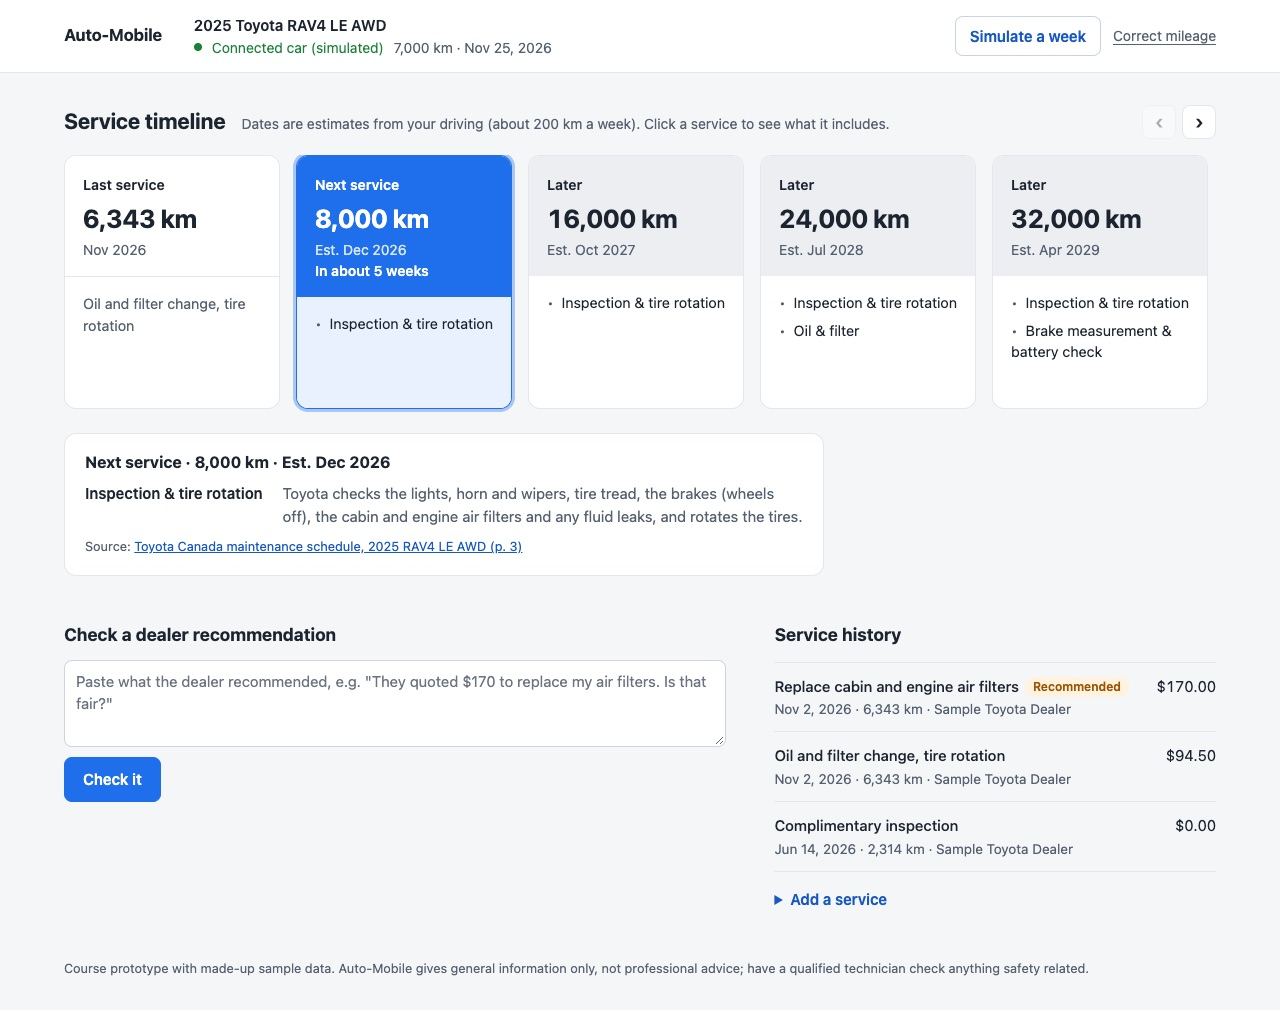
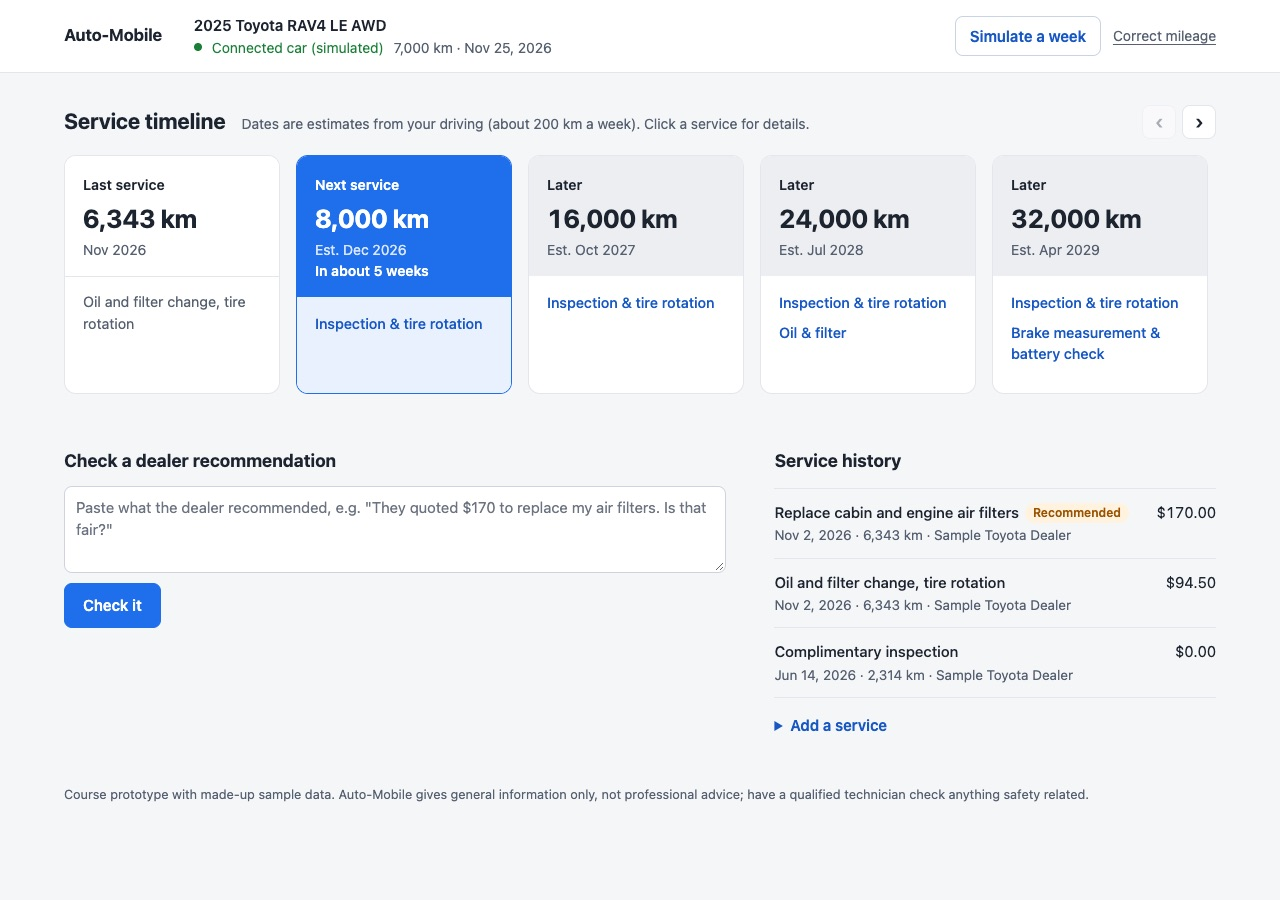
Simpler timeline: each service opens a pop-up with details and a link to the PDF
- removed the details panel and card selection
- services in a card are links; the pop-up shows Toyota's description and opens the schedule PDF at its page
- T11 wording, demo script and test results updated

diff --git a/public/app.js b/public/app.js
@@ -21,69 +21,46 @@ function plainList(items) {
 
 // --- The car, the timeline and the history -----------------------------------
 
-// The timeline: Toyota-style cards. Clicking a card shows what it includes below.
-let timelineState = { cards: [], selected: null };
-
-function cardButton(card, isSelected) {
-  const top = el("span", { className: "visit-top" },
-    el("span", { className: "visit-label", textContent: card.label }),
-    el("span", { className: "visit-km", textContent: km(card.km) }),
-    el("span", { className: "visit-date", textContent: card.dateText }),
-    card.inText && el("span", { className: "visit-when", textContent: card.inText }));
-  const body = el("span", { className: "visit-body" },
-    el("span", { className: "visit-items" }, card.names.map((n) => el("span", { textContent: n }))));
-  const button = el("button", { type: "button", className: `visit ${card.kind}${isSelected ? " selected" : ""}` }, top, body);
-  button.setAttribute("aria-pressed", String(isSelected));
-  button.addEventListener("click", () => selectCard(card.key));
-  return el("li", {}, button);
+// The timeline: Toyota-style cards. Each service opens a pop-up with its details.
+function openService(item, context) {
+  document.getElementById("service-dialog-context").textContent = context;
+  document.getElementById("service-dialog-title").textContent = item.name;
+  document.getElementById("service-dialog-text").textContent = item.description || "";
+  const link = document.getElementById("service-dialog-link");
+  link.href = item.link.url;
+  link.textContent = `Open Toyota's maintenance schedule (${item.link.label.replace("Toyota schedule ", "")})`;
+  document.getElementById("service-dialog").showModal();
 }
 
-function renderDetails(card) {
-  const box = document.getElementById("visit-details");
-  if (!card) return box.replaceChildren();
-  const title = el("h3", { textContent: [card.label, km(card.km), card.dateText].filter(Boolean).join(" · ") });
-  if (card.kind === "past") {
-    return box.replaceChildren(title, el("p", { textContent: card.pastText }));
-  }
-  const pages = [...new Set(card.items.map((i) => i.link.label.replace("Toyota schedule ", "")))].join(", ");
-  box.replaceChildren(
-    title,
-    el("dl", {}, card.items.map((i) => [el("dt", { textContent: i.name }), el("dd", { textContent: i.description || "" })])),
-    el("p", { className: "visit-source" }, "Source: ",
-      extLink({ url: card.items[0].link.url }, `Toyota Canada maintenance schedule, 2025 RAV4 LE AWD (${pages})`)));
+function visitCard(v, i) {
+  const overdue = i === 0 && v.kmLeft <= 0;
+  const kind = i === 0 ? (overdue ? "overdue" : "next") : "later";
+  const label = i === 0 ? (overdue ? "Overdue" : "Next service") : "Later";
+  const dateText = overdue ? `Overdue by ${km(-v.kmLeft)}` : v.dateLabel ? `Est. ${v.dateLabel}` : "";
+  const context = [label, km(v.km), dateText].filter(Boolean).join(" · ");
+  return el("li", { className: `visit ${kind}` },
+    el("div", { className: "visit-top" },
+      el("p", { className: "visit-label", textContent: label }),
+      el("p", { className: "visit-km", textContent: km(v.km) }),
+      el("p", { className: "visit-date", textContent: dateText }),
+      i === 0 && !overdue && v.inLabel && el("p", { className: "visit-when", textContent: v.inLabel.replace(/^in /, "In ") })),
+    el("ul", { className: "visit-items" }, v.items.map((it) => el("li", {},
+      el("button", { type: "button", className: "service-link", textContent: it.name, onclick: () => openService(it, context) })))));
 }
 
-function selectCard(key) {
-  timelineState.selected = key;
-  const t = document.getElementById("timeline");
-  const scroll = t.scrollLeft;
-  t.replaceChildren(...timelineState.cards.map((c) => cardButton(c, c.key === key)));
-  t.scrollLeft = scroll;
-  renderDetails(timelineState.cards.find((c) => c.key === key));
+function lastCard(last) {
+  return el("li", { className: "visit past" },
+    el("div", { className: "visit-top" },
+      el("p", { className: "visit-label", textContent: "Last service" }),
+      el("p", { className: "visit-km", textContent: km(last.km) }),
+      el("p", { className: "visit-date", textContent: last.dateLabel })),
+    el("ul", { className: "visit-items" }, el("li", { textContent: last.item })));
 }
 
-function timelineCards(garage) {
-  const cards = [];
-  const last = garage.lastService;
-  if (last) {
-    cards.push({ key: "last", kind: "past", label: "Last service", km: last.km, dateText: last.dateLabel,
-      names: [last.item], pastText: `${last.item}. ${last.shop}, ${money(last.cost)}.` });
-  }
-  garage.timeline.forEach((v, i) => {
-    const overdue = i === 0 && v.kmLeft <= 0;
-    cards.push({
-      key: `km${v.km}`,
-      kind: i === 0 ? (v.status === "overdue" ? "overdue" : "next") : "later",
-      label: i === 0 ? (v.status === "overdue" ? "Overdue" : "Next service") : "Later",
-      km: v.km,
-      dateText: overdue ? `Overdue by ${km(-v.kmLeft)}` : v.dateLabel ? `Est. ${v.dateLabel}` : "",
-      inText: i === 0 && !overdue && v.inLabel ? v.inLabel.replace(/^in /, "In ") : null,
-      names: v.items.map((it) => it.name),
-      items: v.items,
-    });
-  });
-  return cards;
-}
+// Close the pop-up when clicking outside it.
+document.getElementById("service-dialog").addEventListener("click", (event) => {
+  if (event.target === event.currentTarget) event.currentTarget.close();
+});
 
 function historyRow(h) {
   return el("li", {},
@@ -100,13 +77,10 @@ function renderGarage(garage) {
   document.getElementById("car-line").textContent = `${km(car.mileageKm)} · ${car.todayLabel}`;
   document.getElementById("mileage").placeholder = `e.g. ${car.mileageKm}`;
 
-  const cards = timelineCards(garage);
-  const keep = cards.some((c) => c.key === timelineState.selected) ? timelineState.selected : null;
-  const next = cards.find((c) => c.kind === "next" || c.kind === "overdue");
-  timelineState = { cards, selected: keep || (next && next.key) };
-  selectCard(timelineState.selected);
+  document.getElementById("timeline").replaceChildren(
+    ...[garage.lastService && lastCard(garage.lastService), ...garage.timeline.map(visitCard)].filter(Boolean));
   document.getElementById("due-source").textContent = car.kmPerWeek != null
-    ? `Dates are estimates from your driving (about ${km(car.kmPerWeek)} a week). Click a service to see what it includes.`
+    ? `Dates are estimates from your driving (about ${km(car.kmPerWeek)} a week). Click a service for details.`
     : "";
   // Start with the last service and the next one in view.
   document.getElementById("timeline").scrollLeft = 0;

diff --git a/public/style.css b/public/style.css
@@ -161,13 +161,9 @@ main > * { min-width: 0; }
   scroll-behavior: smooth;
   scrollbar-width: thin;
 }
-.timeline > li { flex: 0 0 216px; display: flex; scroll-snap-align: start; }
 .visit {
-  width: 100%;
-  padding: 0;
-  font-weight: 400;
-  text-align: left;
-  color: inherit;
+  flex: 0 0 216px;
+  scroll-snap-align: start;
   display: flex;
   flex-direction: column;
   border-radius: var(--radius);
@@ -175,45 +171,51 @@ main > * { min-width: 0; }
   background: var(--surface);
   border: 1px solid var(--line);
 }
-.visit > span { display: block; }
-.visit:hover { border-color: #b7c3d6; }
-.visit.selected { box-shadow: 0 0 0 3px rgba(31, 111, 235, 0.35); }
-.visit-top > span { display: block; }
 .visit-top { padding: 18px 18px 16px; background: var(--tile); }
 .visit-label { font-size: 0.875rem; font-weight: 600; }
 .visit-km { margin-top: 4px; font-size: 1.6rem; font-weight: 700; letter-spacing: -0.01em; font-variant-numeric: tabular-nums; }
 .visit-date { margin-top: 2px; font-size: 0.875rem; color: var(--muted); }
 .visit-when { font-size: 0.875rem; font-weight: 600; }
-.visit-body { flex: 1; display: flex; flex-direction: column; gap: 12px; padding: 16px 18px 18px; }
-.visit-items { display: grid; gap: 6px; font-size: 0.9rem; }
-.visit-items > span::before { content: "•"; margin-right: 8px; color: var(--muted); }
-.visit-source { margin-top: auto; font-size: 0.8rem; color: var(--muted); }
-.visit-details {
-  margin-top: 16px;
-  padding: 18px 20px;
-  background: var(--surface);
-  border: 1px solid var(--line);
-  border-radius: var(--radius);
-  display: grid;
-  gap: 10px;
-  max-width: 760px;
+.visit-items { list-style: none; margin: 0; padding: 14px 18px 18px; flex: 1; display: grid; align-content: start; gap: 4px; font-size: 0.9rem; }
+.service-link {
+  padding: 2px 0;
+  font-weight: 500;
+  text-align: left;
+  color: var(--accent-ink);
+  background: none;
+  border: 0;
+  border-radius: 4px;
 }
-.visit-details:empty { display: none; }
-.visit-details dl { margin: 0; display: grid; grid-template-columns: minmax(160px, max-content) 1fr; gap: 6px 20px; }
-.visit-details dt { font-weight: 600; }
-.visit-details dd { margin: 0; color: var(--muted); }
+.service-link:hover { text-decoration: underline; text-underline-offset: 3px; }
+.visit-source { margin-top: auto; font-size: 0.8rem; color: var(--muted); }
+/* Service pop-up */
+dialog {
+  width: min(440px, calc(100vw - 32px));
+  padding: 24px;
+  border: 0;
+  border-radius: var(--radius);
+  color: var(--ink);
+  box-shadow: 0 16px 48px rgba(16, 24, 40, 0.22);
+}
+dialog::backdrop { background: rgba(16, 24, 40, 0.35); }
+dialog[open] { animation: pop-in 180ms cubic-bezier(0.25, 1, 0.5, 1); }
+@keyframes pop-in { from { opacity: 0; transform: translateY(6px); } to { opacity: 1; transform: none; } }
+.dialog-close { position: absolute; top: 12px; right: 12px; }
+.dialog-context { font-size: 0.85rem; color: var(--muted); margin-bottom: 4px; padding-right: 40px; }
+#service-dialog-title { margin-bottom: 10px; padding-right: 40px; }
+#service-dialog-text { margin-bottom: 16px; }
+#service-dialog-link { font-size: 0.9rem; font-weight: 600; }
 
 .visit.next { border-color: var(--accent); }
 .visit.next .visit-top { background: var(--accent); color: #fff; }
 .visit.next .visit-date { color: #dbe7ff; }
-.visit.next .visit-body { background: var(--accent-soft); }
+.visit.next .visit-items { background: var(--accent-soft); }
 .visit.overdue { border-color: var(--danger); }
 .visit.overdue .visit-top { background: var(--danger); color: #fff; }
 .visit.overdue .visit-date { color: #ffe1dd; }
-.visit.overdue .visit-body { background: var(--danger-soft); }
+.visit.overdue .visit-items { background: var(--danger-soft); }
 .visit.past .visit-top { background: var(--surface); border-bottom: 1px solid var(--line); }
 .visit.past .visit-items { color: var(--muted); }
-.visit.past .visit-items > span::before { content: none; }
 
 /* --- Two columns: check a recommendation | history --- */
 .columns { display: grid; grid-template-columns: minmax(0, 3fr) minmax(0, 2fr); gap: 48px; align-items: start; }
@@ -310,8 +312,6 @@ main > * { min-width: 0; }
   .topbar-inner { flex-direction: column; align-items: stretch; gap: 10px; padding: 12px 16px 14px; }
   .car-actions { justify-content: space-between; }
   .popover-panel { right: 0; }
-  .visit-details dl { grid-template-columns: 1fr; gap: 2px; }
-  .visit-details dd { margin-bottom: 8px; }
   main { padding: 24px 16px 40px; gap: 36px; }
   .section-head { flex-wrap: wrap; }
   .visit { flex-basis: 190px; }
@@ -321,6 +321,7 @@ main > * { min-width: 0; }
 }
 
 @media (prefers-reduced-motion: reduce) {
+  dialog[open] { animation: none; }
   .timeline { scroll-behavior: auto; }
   button { transition: none; }
 }

diff --git a/public/index.html b/public/index.html
@@ -43,7 +43,6 @@
         </div>
       </div>
       <ol class="timeline" id="timeline"></ol>
-      <div class="visit-details" id="visit-details" aria-live="polite"></div>
     </section>
 
     <div class="columns">
@@ -93,6 +92,14 @@
     Course prototype with made-up sample data. Auto-Mobile gives general information only, not professional advice;
     have a qualified technician check anything safety related.
   </footer>
+
+  <dialog id="service-dialog" aria-labelledby="service-dialog-title">
+    <form method="dialog" class="dialog-close"><button type="submit" class="icon-button" aria-label="Close">×</button></form>
+    <p class="dialog-context" id="service-dialog-context"></p>
+    <h2 id="service-dialog-title"></h2>
+    <p id="service-dialog-text"></p>
+    <a id="service-dialog-link" target="_blank" rel="noopener"></a>
+  </dialog>
 
   <script src="app.js"></script>
 </body>

diff --git a/demo-script.md b/demo-script.md
@@ -17,7 +17,7 @@ part of the product (PRD section 5).
 
 | Step | Say | Do | Audience sees |
 |------|-----|----|---------------|
-| 0a | "The app is connected to the car, so it knows the mileage. For the prototype we simulate that." | Point at the top bar and the **Service timeline** | 7,000 km, about 200 km a week; last service at 6,343 km; next service at 8,000 km, est. Dec 2026. Click a later card (e.g. 32,000 km) to show what Toyota includes |
+| 0a | "The app is connected to the car, so it knows the mileage. For the prototype we simulate that." | Point at the top bar and the **Service timeline** | 7,000 km, about 200 km a week; last service at 6,343 km; next service at 8,000 km, est. Dec 2026. Click **Brake measurement & battery check** on the 32,000 km card: a pop-up explains it, with a link to Toyota's schedule |
 | 0b | "A chat can't do this: it tells you before you ask." | Press **Simulate a week** five or six times | Mileage and date go up; the next service turns red (overdue) once the car passes 8,000 km |
 | 1 | "A dealer told our user their $200 air filter job was needed. Is it?" | Paste T1 and press **Check it** | Quote marked above the typical range; Toyota's own schedule only *inspects* the filter at each visit and replaces it if dirty (with the Toyota page as source); DIY 1/5 |
 | 2 | "Could they do it themselves?" | Press **Parts & tools to DIY** | Parts, tools, video guide link |

diff --git a/acceptance-test.md b/acceptance-test.md
@@ -14,6 +14,6 @@ Each test is one action and the result we expect to see. A person runs every tes
 | T8 | Submit with letters instead of numbers for mileage | Should not be allowed, should redirect user to enter numerical input | | |
 | T9 | Open the app | Main screen shows "Connected car (simulated)", the current mileage, and the service timeline: last service, next service (highlighted) and later services, each with km, estimated date and what is included | | |
 | T10 | Press "Simulate a week", then reload the page | Mileage and simulated date have gone up, the timeline has updated, and both are still there after the reload | | |
-| T11 | Click the source link under the service timeline | Opens the Toyota maintenance schedule, with the page number shown | | |
+| T11 | Click a service in the timeline, then the link in the pop-up | The pop-up explains the service; the link opens the Toyota maintenance schedule in the browser, with the page number shown | | |
 | T12 | Paste "The dealer says I need a tire rotation, is it due?" | Answer says whether it is due at the current mileage according to the schedule (with guide page), and when it was last done | | |
 | T13 | Paste "What oil does my car need and how much?" | Answer gives the oil type and amount, citing the page of the Toyota owner's manual | | |

diff --git a/test-results.md b/test-results.md
@@ -3,6 +3,14 @@
 Results from the builder (Claude Code) clicking through `acceptance-test.md` in the running app, on a phone-sized screen.
 The empty "Last run" and "Run by" columns in `acceptance-test.md` are for the team's tester to fill in after their own run.
 
+## Service pop-up: 2026-11-25
+
+Simplified: the details panel under the timeline is gone. Each service in a card is a link that opens a pop-up with
+Toyota's description and a link to the schedule PDF (opens in the browser at the right page). Re-run in Chrome at
+1280 px: T11 pop-up "Next service · 8,000 km · Est. Dec 2026 / Inspection & tire rotation / Toyota checks the lights…",
+link `/docs/toyota-schedule-2025-rav4-le-awd.pdf#page=3`, opens in a new tab. T1–T10 and T12 pass as before (basic
+answers). Screenshot: `15-timeline-details.jpg` now shows the pop-up.
+
 ## Timeline details, local PDF, 200 km a week: 2026-11-25
 
 - Clicking a timeline card now shows what each service includes (Toyota's wording) in a panel below the timeline,
